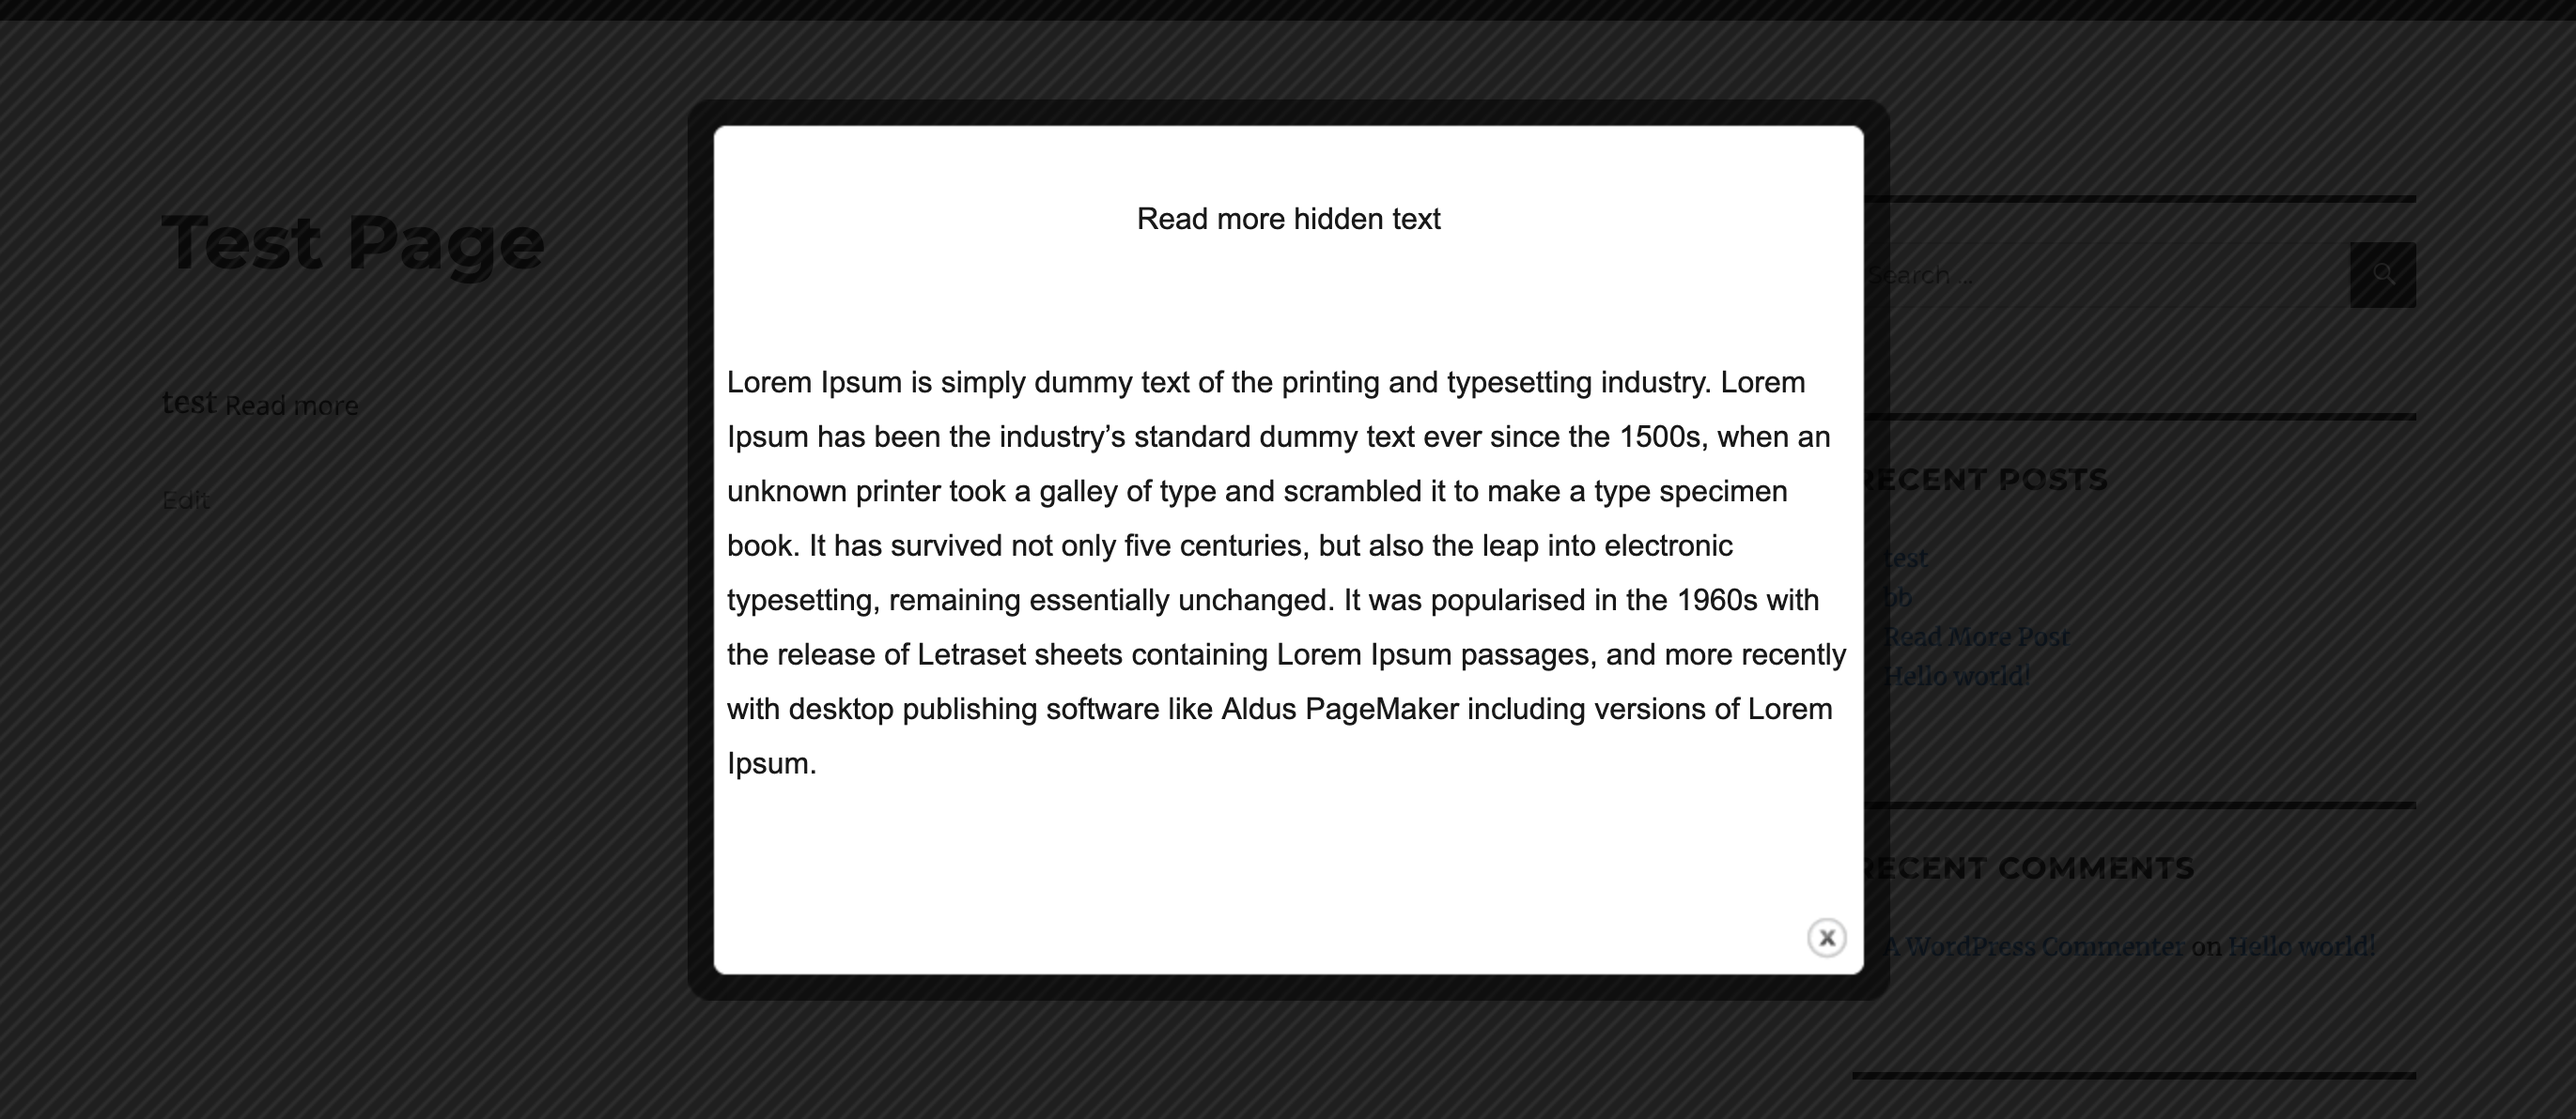
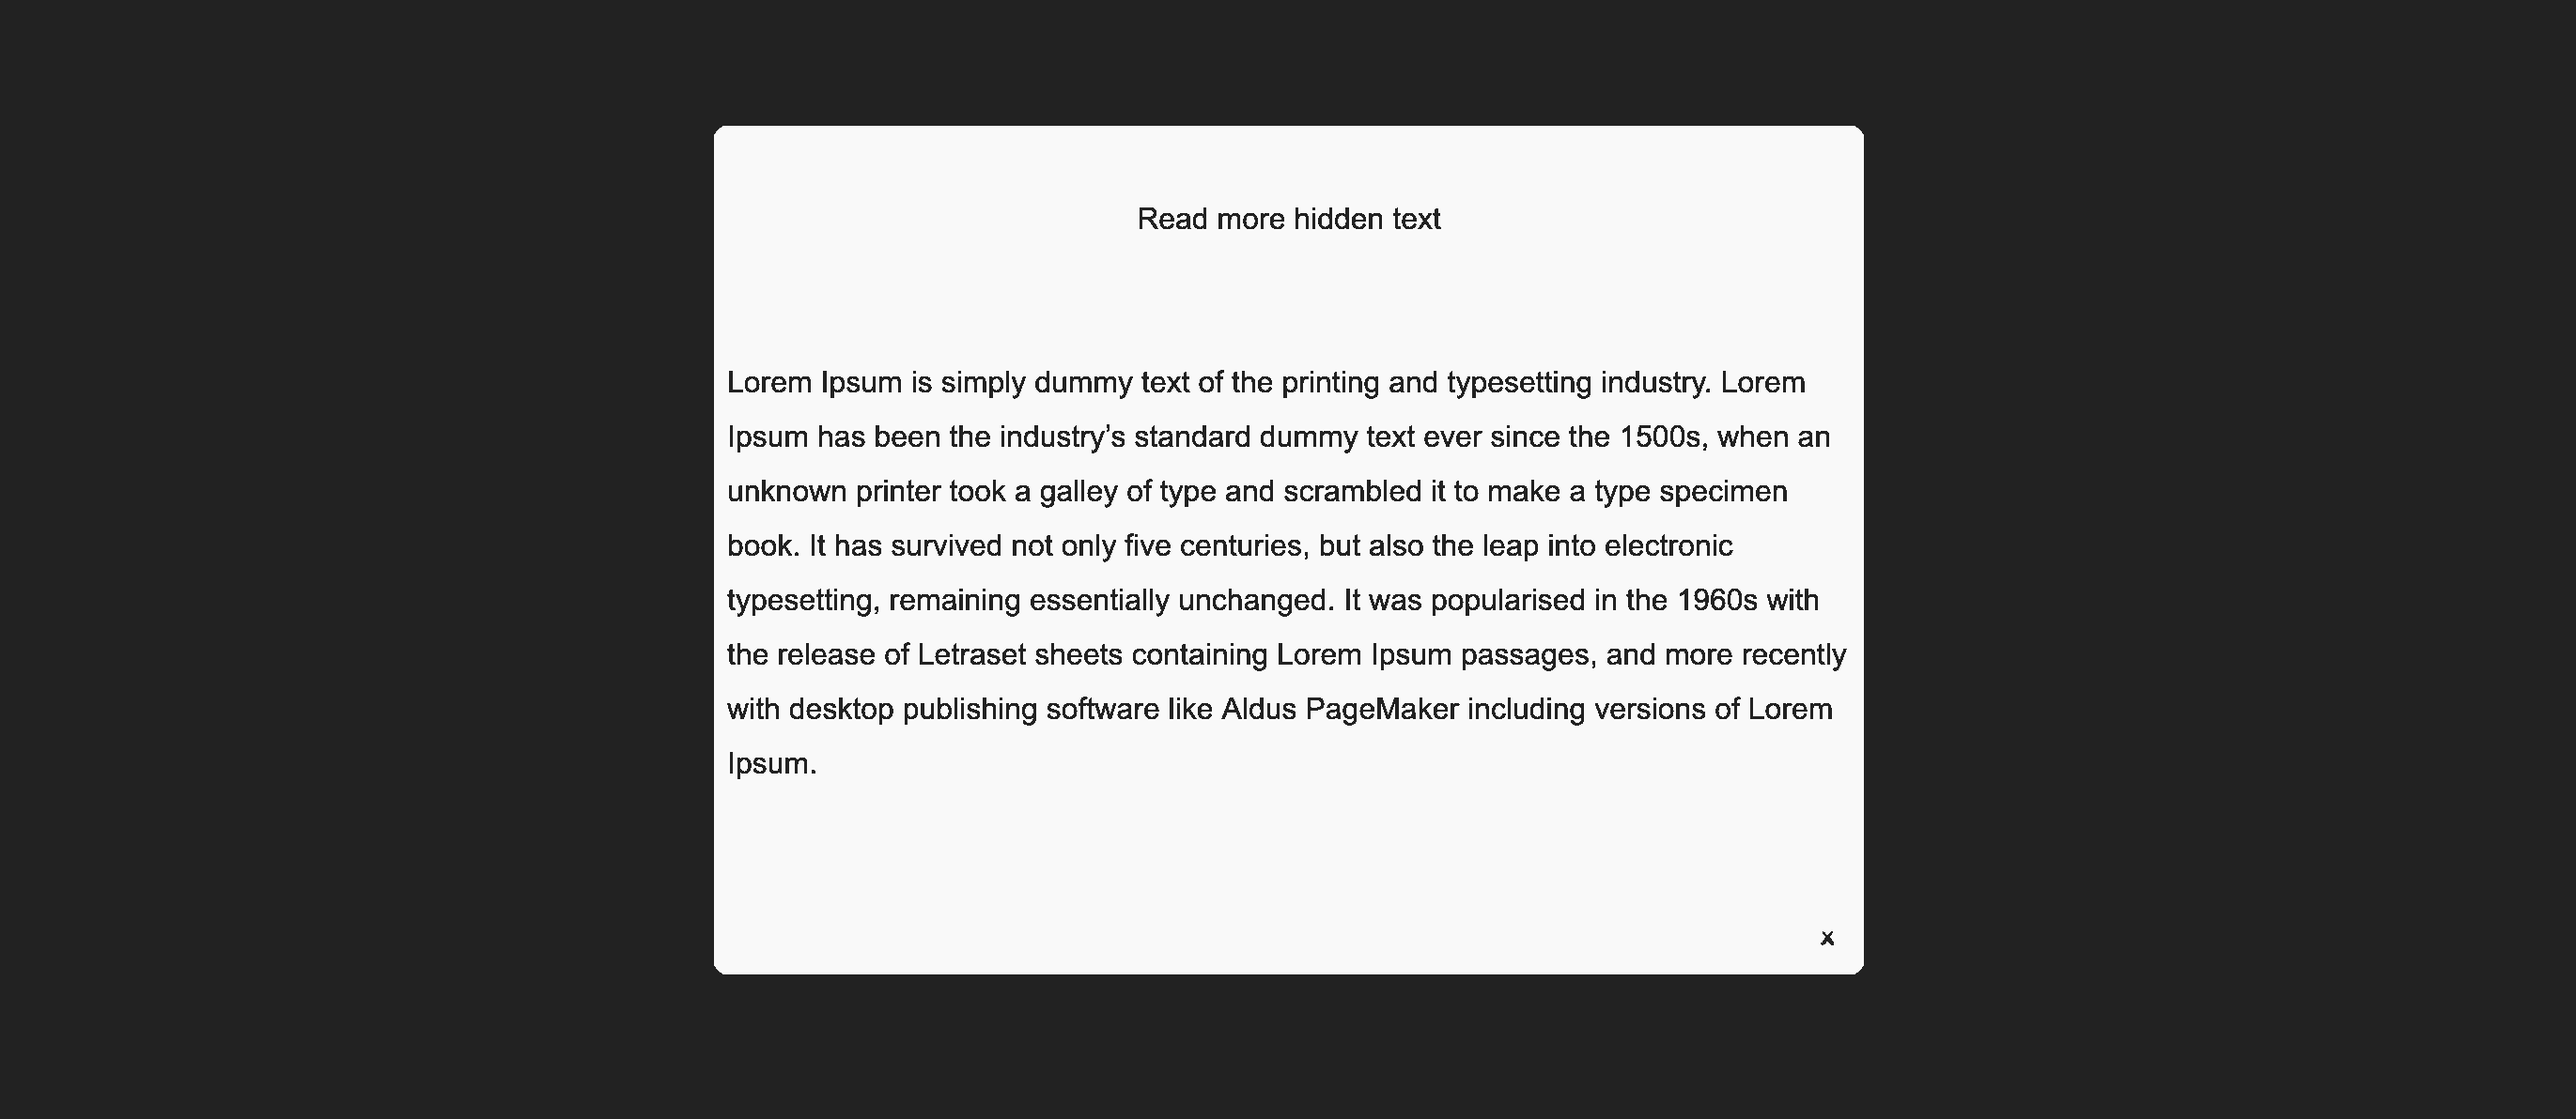
3.5.7

diff --git a/expand-maker/css/readMoreAdmin.css b/expand-maker/css/readMoreAdmin.css
@@ -230,29 +230,28 @@ a.wp-color-result {
 
 .yrm-pro-options-title {
 	position: absolute;
-	top: 50%;
-	left: 57%;
-	font-size: 32px;
+	top: 30%;
+	left: 54%;
+	font-size: 30px;
 	color: red;
 	opacity: 1;
 	overflow-wrap: break-word;
-	width: auto;
-	margin-top: -15px;
 }
 
 .yrm-type-title-pro {
-	position: absolute;
-	font-size: 32px;
+	font-size: 23px;
+	font-weight: 600;
 	color: red;
 	opacity: 1;
 	overflow-wrap: break-word;
 	width: auto;
 	margin-top: -15px;
 	-ms-transform: rotate(7deg);
-	-webkit-transform: rotate(7deg);
+	/* -webkit-transform: rotate(7deg); */
 	transform: rotate(36deg);
-	top: 40px;
-	right: -19px;
+	top: 32px;
+	right: -14px;
+	position: absolute;
 }
 
 .yrm-ext-title {
@@ -1326,7 +1325,7 @@ label.yrm-label {
 	margin-top: 10px;
     width: 100%;
     height: 200px;
-    background-image: url(../img/telegram.jpeg);
+    background-image: url(../img/telegram.jpg);
     background-size: contain;
     background-repeat: no-repeat;
     background-position: center;

diff --git a/expand-maker/views/readMoreAddNew.php b/expand-maker/views/readMoreAddNew.php
@@ -1,141 +1,193 @@
 <?php
 use \yrm\TypesNavBar;
-$currentExtensions = YrmConfig::extensions();
-$extensionsResult = ReadMoreAdminHelper::separateToActiveAndNotActive($currentExtensions);
-$upgradeButton = '';
 
+$currentExtensions = YrmConfig::extensions();
+$extensionsResult  = ReadMoreAdminHelper::separateToActiveAndNotActive($currentExtensions);
+
+$allowedTag = ReadMoreAdminHelper::getAllowedTags();
+
+$upgradeButton = '';
 if (YRM_PKG == YRM_FREE_PKG) {
 	$upgradeButton = ReadMoreAdminHelper::upgradeButton();
 }
-$allowedTag = ReadMoreAdminHelper::getAllowedTags();
+
+$ideasButton = ReadMoreAdminHelper::newIdeasButton();
+
+$adminBase = admin_url('admin.php?page=button');
+
+$buildTypeUrl = static function(string $type) use ($adminBase): string {
+	return add_query_arg(['yrm_type' => $type], $adminBase);
+};
+
+/**
+ * Renders a type box (recommended: <a> for accessibility)
+ */
+$renderTypeBox = static function(array $args) {
+	// args: href, shortKey, title, isPro(optional), video(optional), extraClass(optional)
+	$href       = $args['href'] ?? '#';
+	$shortKey   = $args['shortKey'] ?? '';
+	$title      = $args['title'] ?? '';
+	$isPro      = !empty($args['isPro']);
+	$video      = $args['video'] ?? '';
+	$extraClass = $args['extraClass'] ?? '';
+
+	$wrapTag = ($isPro && !empty($args['targetBlank'])) ? 'a' : 'a';
+	$target  = !empty($args['targetBlank']) ? ' target="_blank" rel="noopener noreferrer"' : '';
+
+	?>
+	<<?php echo $wrapTag; ?> class="product-banner <?php echo esc_attr($extraClass); ?>"
+		href="<?php echo esc_url($href); ?>"<?php echo $target; ?>>
+		<div class="yrm-types yrm-<?php echo esc_attr($shortKey); ?><?php echo $isPro ? ' type-banner-pro' : ''; ?>">
+			<?php if ($isPro): ?>
+				<p class="yrm-type-title-pro"><?php echo esc_html__('PRO Features', YRM_LANG); ?></p>
+			<?php endif; ?>
+		</div>
+
+		<div class="yrm-type-view-footer">
+			<span class="yrm-promotion-title"><?php echo esc_html($title); ?></span>
+
+			<?php if (!empty($video)): ?>
+				<span class="yrm-play-promotion-video" data-href="<?php echo esc_url($video); ?>"></span>
+			<?php endif; ?>
+		</div>
+	</<?php echo $wrapTag; ?>>
+	<?php
+};
 ?>
 <div class="ycf-bootstrap-wrapper">
-	<h3>Add New Read More Type <?php echo wp_kses($upgradeButton, $allowedTag); ?>  <?php echo wp_kses(ReadMoreAdminHelper::newIdeasButton(), ReadMoreAdminHelper::getAllowedTags())?></h3>
+	<h3>
+		<?php echo esc_html__('Add New Read More Type', YRM_LANG); ?>
+		<?php echo wp_kses($upgradeButton, $allowedTag); ?>
+		<?php echo wp_kses($ideasButton, $allowedTag); ?>
+	</h3>
 
-    <?php echo TypesNavBar::render(); ?>
-    <?php if (ReadMoreAdminHelper::allowToShowType('button')): ?>
-	<div class="product-banner" onclick="location.href = '<?php echo admin_url();?>admin.php?page=button&yrm_type=button'">
-		<div class="yrm-types yrm-button"></div>
-		<div class="yrm-type-view-footer">
-			<span class="yrm-promotion-title"><?php _e('Button', YRM_LANG);?></span>
-		</div>
-	</div>
-    <?php endif; ?>
-    <?php if (ReadMoreAdminHelper::allowToShowType('inline')): ?>
-	<div class="product-banner" onclick="location.href = '<?php echo admin_url();?>admin.php?page=button&yrm_type=inline'">
-		<div class="yrm-types yrm-inline"></div>
-		<div class="yrm-type-view-footer">
-			<span class="yrm-promotion-title"><?php _e('Inline', YRM_LANG);?></span>
-		</div>
-	</div>
-    <?php endif; ?>
-	<?php if (ReadMoreAdminHelper::allowToShowType('accordion')): ?>
-		<div class="product-banner" onclick="location.href = '<?php echo admin_url();?>admin.php?page=button&yrm_type=accordion'">
-			<div class="yrm-types yrm-accordion"></div>
-			<div class="yrm-type-view-footer">
-				<span class="yrm-promotion-title"><?php _e('Accordion', YRM_LANG);?></span>
-			</div>
-		</div>
-	<?php endif; ?>
-    <?php foreach ($extensionsResult['active'] as $extension): ?>
-        <div class="product-banner" onclick="location.href = '<?php echo admin_url();?>admin.php?page=button&yrm_type=<?php echo esc_attr($extension['shortKey']);?>'">
-            <div class="yrm-types yrm-<?php echo esc_attr($extension['shortKey']);?>"></div>
-            <div class="yrm-type-view-footer">
-                <span class="yrm-promotion-title"><?php _e($extension['boxTitle'], YRM_LANG);?></span>
-            </div>
-        </div>
-    <?php endforeach; ?>
-    <?php if (ReadMoreAdminHelper::allowToShowType('link')): ?>
-    <div class="product-banner" onclick="location.href = '<?php echo admin_url();?>admin.php?page=button&yrm_type=link'">
-        <div class="yrm-types yrm-link"></div>
-        <div class="yrm-type-view-footer">
-            <span class="yrm-promotion-title"><?php _e('Link button', YRM_LANG);?></span>
-        </div>
-    </div>
-    <?php endif; ?>
-    <?php if (ReadMoreAdminHelper::allowToShowType('alink')): ?>
-    <div class="product-banner" onclick="location.href = '<?php echo admin_url();?>admin.php?page=button&yrm_type=alink'">
-        <div class="yrm-types yrm-alink"></div>
-        <div class="yrm-type-view-footer">
-            <span class="yrm-promotion-title"><?php _e('Link', YRM_LANG);?></span>
-        </div>
-    </div>
-    <?php endif; ?>
-	<?php if(YRM_PKG > YRM_SILVER_PKG && ReadMoreAdminHelper::allowToShowType('popup')): ?>
-		<div class="product-banner" onclick="location.href = '<?php echo admin_url();?>admin.php?page=button&yrm_type=popup'">
-			<div class="yrm-types yrm-popup"></div>
-			<div class="yrm-type-view-footer">
-				<span class="yrm-promotion-title"><?php _e('Button & popup', YRM_LANG);?></span>
-			</div>
-		</div>
-        <div class="product-banner" onclick="location.href = '<?php echo admin_url();?>admin.php?page=button&yrm_type=inlinePopup'">
-			<div class="yrm-types yrm-inline-popup"></div>
-			<div class="yrm-type-view-footer">
-				<span class="yrm-promotion-title"><?php _e('Inline & popup', YRM_LANG);?></span>
-			</div>
-		</div>
-		<div class="product-banner" onclick="location.href = '<?php echo admin_url();?>admin.php?page=button&yrm_type=accordionPopup'">
-			<div class="yrm-types yrm-accordion-popup"></div>
-			<div class="yrm-type-view-footer">
-				<span class="yrm-promotion-title"><?php _e('Accordion & popup', YRM_LANG);?></span>
-			</div>
-		</div>
-	<?php endif?>
-	<?php if(YRM_PKG == YRM_FREE_PKG): ?>
-        <?php if(ReadMoreAdminHelper::allowToShowType('popup')): ?>
-            <a class="product-banner" href="<?php echo YRM_PRO_URL; ?>" target="_blank">
-                <div class="yrm-types yrm-popup type-banner-pro">
-                    <p class="yrm-type-title-pro">PRO Features</p>
-                </div>
-                <div class="yrm-type-view-footer">
-                    <span class="yrm-promotion-title"><?php _e('Button & popup', YRM_LANG);?></span>
-                    <span class="yrm-play-promotion-video" data-href="<?php echo YRM_POPUP_VIDEO; ?>"></span>
-                </div>
-            </a>
-            <a class="product-banner" href="<?php echo YRM_PRO_URL; ?>" target="_blank">
-                <div class="yrm-types yrm-inline-popup type-banner-pro">
-                    <p class="yrm-type-title-pro">PRO Features</p>
-                </div>
-                <div class="yrm-type-view-footer">
-                    <span class="yrm-promotion-title"><?php _e('Inline & popup', YRM_LANG);?></span>
-                    <span class="yrm-play-promotion-video" data-href="<?php echo YRM_POPUP_VIDEO; ?>"></span>
-                </div>
-            </a>
-			<a class="product-banner" href="<?php echo YRM_PRO_URL; ?>" target="_blank">
-                <div class="yrm-types yrm-accordion-popup type-banner-pro">
-                    <p class="yrm-type-title-pro">PRO Features</p>
-                </div>
-                <div class="yrm-type-view-footer">
-                    <span class="yrm-promotion-title"><?php _e('Accordion & popup', YRM_LANG);?></span>
-<!--                    <span class="yrm-play-promotion-video" data-href="--><?php //echo YRM_POPUP_VIDEO; ?><!--"></span>-->
-                </div>
-            </a>
-        <?php endif; ?>
-	<?php endif?>
-</div>
-<?php
+	<?php echo TypesNavBar::render(); ?>
 
-if(!empty($extensionsResult['passive'])) : ?>
-<div class="yrm-add-new-extensions-wrapper">
-	<span class="yrm-add-new-extensions">
-		Extensions
-	</span>
+	<div class="boxes">
+		<?php if (ReadMoreAdminHelper::allowToShowType('button')): ?>
+			<?php $renderTypeBox([
+				'href' => $buildTypeUrl('button'),
+				'shortKey' => 'button',
+				'title' => __('Button', YRM_LANG),
+			]); ?>
+		<?php endif; ?>
+
+		<?php if (ReadMoreAdminHelper::allowToShowType('inline')): ?>
+			<?php $renderTypeBox([
+				'href' => $buildTypeUrl('inline'),
+				'shortKey' => 'inline',
+				'title' => __('Inline', YRM_LANG),
+			]); ?>
+		<?php endif; ?>
+
+		<?php if (ReadMoreAdminHelper::allowToShowType('accordion')): ?>
+			<?php $renderTypeBox([
+				'href' => $buildTypeUrl('accordion'),
+				'shortKey' => 'accordion',
+				'title' => __('Accordion', YRM_LANG),
+			]); ?>
+		<?php endif; ?>
+
+		<?php foreach (($extensionsResult['active'] ?? []) as $extension): ?>
+			<?php
+			// NOTE: boxTitle ideally should be a static i18n key; if it's already translated text, use esc_html only.
+			$title = isset($extension['boxTitle']) ? $extension['boxTitle'] : '';
+			$short = isset($extension['shortKey']) ? $extension['shortKey'] : '';
+			?>
+			<?php $renderTypeBox([
+				'href' => $buildTypeUrl($short),
+				'shortKey' => $short,
+				'title' => $title,
+			]); ?>
+		<?php endforeach; ?>
+
+		<?php if (ReadMoreAdminHelper::allowToShowType('link')): ?>
+			<?php $renderTypeBox([
+				'href' => $buildTypeUrl('link'),
+				'shortKey' => 'link',
+				'title' => __('Link button', YRM_LANG),
+			]); ?>
+		<?php endif; ?>
+
+		<?php if (ReadMoreAdminHelper::allowToShowType('alink')): ?>
+			<?php $renderTypeBox([
+				'href' => $buildTypeUrl('alink'),
+				'shortKey' => 'alink',
+				'title' => __('Link', YRM_LANG),
+			]); ?>
+		<?php endif; ?>
+
+		<?php if (YRM_PKG > YRM_SILVER_PKG && ReadMoreAdminHelper::allowToShowType('popup')): ?>
+			<?php $renderTypeBox([
+				'href' => $buildTypeUrl('popup'),
+				'shortKey' => 'popup',
+				'title' => __('Button & popup', YRM_LANG),
+			]); ?>
+
+			<?php $renderTypeBox([
+				'href' => $buildTypeUrl('inlinePopup'),
+				'shortKey' => 'inline-popup',
+				'title' => __('Inline & popup', YRM_LANG),
+			]); ?>
+
+			<?php $renderTypeBox([
+				'href' => $buildTypeUrl('accordionPopup'),
+				'shortKey' => 'accordion-popup',
+				'title' => __('Accordion & popup', YRM_LANG),
+			]); ?>
+		<?php endif; ?>
+
+		<?php if (YRM_PKG == YRM_FREE_PKG && ReadMoreAdminHelper::allowToShowType('popup')): ?>
+			<?php
+			$proHref = defined('YRM_PRO_URL') ? YRM_PRO_URL : '#';
+			$video   = defined('YRM_POPUP_VIDEO') ? YRM_POPUP_VIDEO : '';
+			?>
+			<?php $renderTypeBox([
+				'href' => $proHref,
+				'shortKey' => 'popup',
+				'title' => __('Button & popup', YRM_LANG),
+				'isPro' => true,
+				'video' => $video,
+				'targetBlank' => true,
+			]); ?>
+
+			<?php $renderTypeBox([
+				'href' => $proHref,
+				'shortKey' => 'inline-popup',
+				'title' => __('Inline & popup', YRM_LANG),
+				'isPro' => true,
+				'video' => $video,
+				'targetBlank' => true,
+			]); ?>
+
+			<?php $renderTypeBox([
+				'href' => $proHref,
+				'shortKey' => 'accordion-popup',
+				'title' => __('Accordion & popup', YRM_LANG),
+				'isPro' => true,
+				'targetBlank' => true,
+			]); ?>
+		<?php endif; ?>
+	</div>
 </div>
-    <?php if (!empty($extensionsResult['comingSoon'])): ?>
-        <?php foreach ($extensionsResult['comingSoon'] as $extension): ?>
-            <?php include(YRM_TEMPLATES_FIND.'extensionBox.php');?>
-        <?php endforeach; ?>
-    <?php endif; ?>
-    <?php foreach ($extensionsResult['passive'] as $extension): ?>
-        <?php include(YRM_TEMPLATES_FIND.'extensionBox.php');?>
-    <?php endforeach; ?>
+
+<?php if (!empty($extensionsResult['passive'])): ?>
+	<div class="yrm-add-new-extensions-wrapper">
+		<span class="yrm-add-new-extensions"><?php echo esc_html__('Extensions', YRM_LANG); ?></span>
+	</div>
+
+	<?php foreach (($extensionsResult['comingSoon'] ?? []) as $extension): ?>
+		<?php include(YRM_TEMPLATES_FIND . 'extensionBox.php'); ?>
+	<?php endforeach; ?>
+
+	<?php foreach ($extensionsResult['passive'] as $extension): ?>
+		<?php include(YRM_TEMPLATES_FIND . 'extensionBox.php'); ?>
+	<?php endforeach; ?>
 <?php endif; ?>
+
 <div class="yrm-add-new-extensions-wrapper">
-	<span class="yrm-add-new-extensions">
-		More plugins
-	</span>
+	<span class="yrm-add-new-extensions"><?php echo esc_html__('More plugins', YRM_LANG); ?></span>
 </div>
 <div class="yrm-add-new-plugins">
-	<?php require_once(dirname(__FILE__).'/morePlugins.php')?>
+	<?php require_once(dirname(__FILE__) . '/morePlugins.php'); ?>
 </div>
-

diff --git a/expand-maker/expand-maker.php b/expand-maker/expand-maker.php
@@ -2,7 +2,7 @@
 /**
  * Plugin Name: Read More
  * Description: Hide additional content by wrapping content in an [expander_maker] shortcode.
- * Version: 3.5.6
+ * Version: 3.5.7
  * Author: Edmon
  * Author URI: https://edmonsoft.com
  * License: GPLv2
